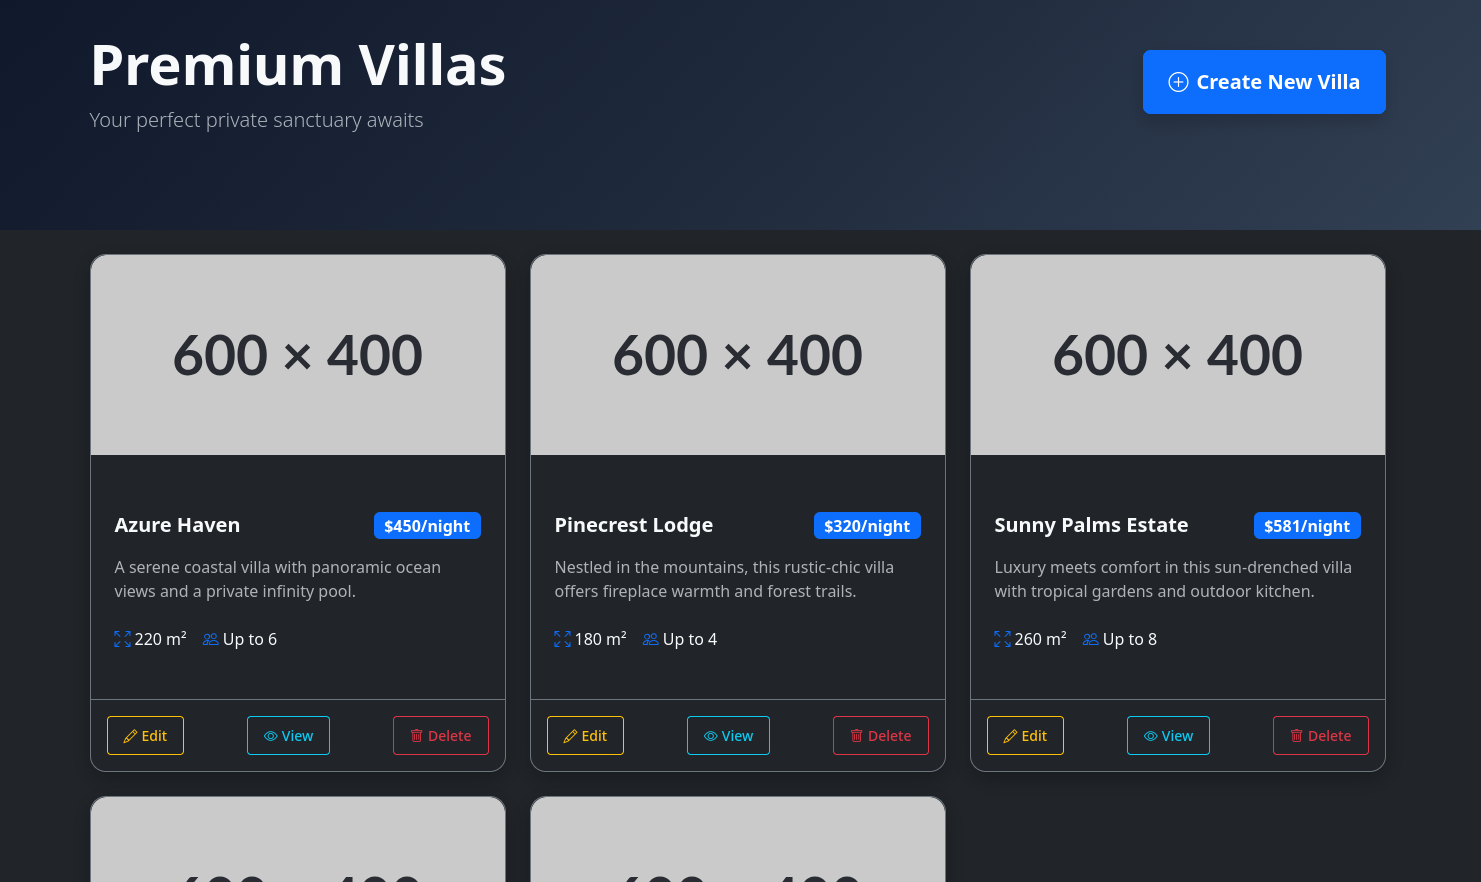
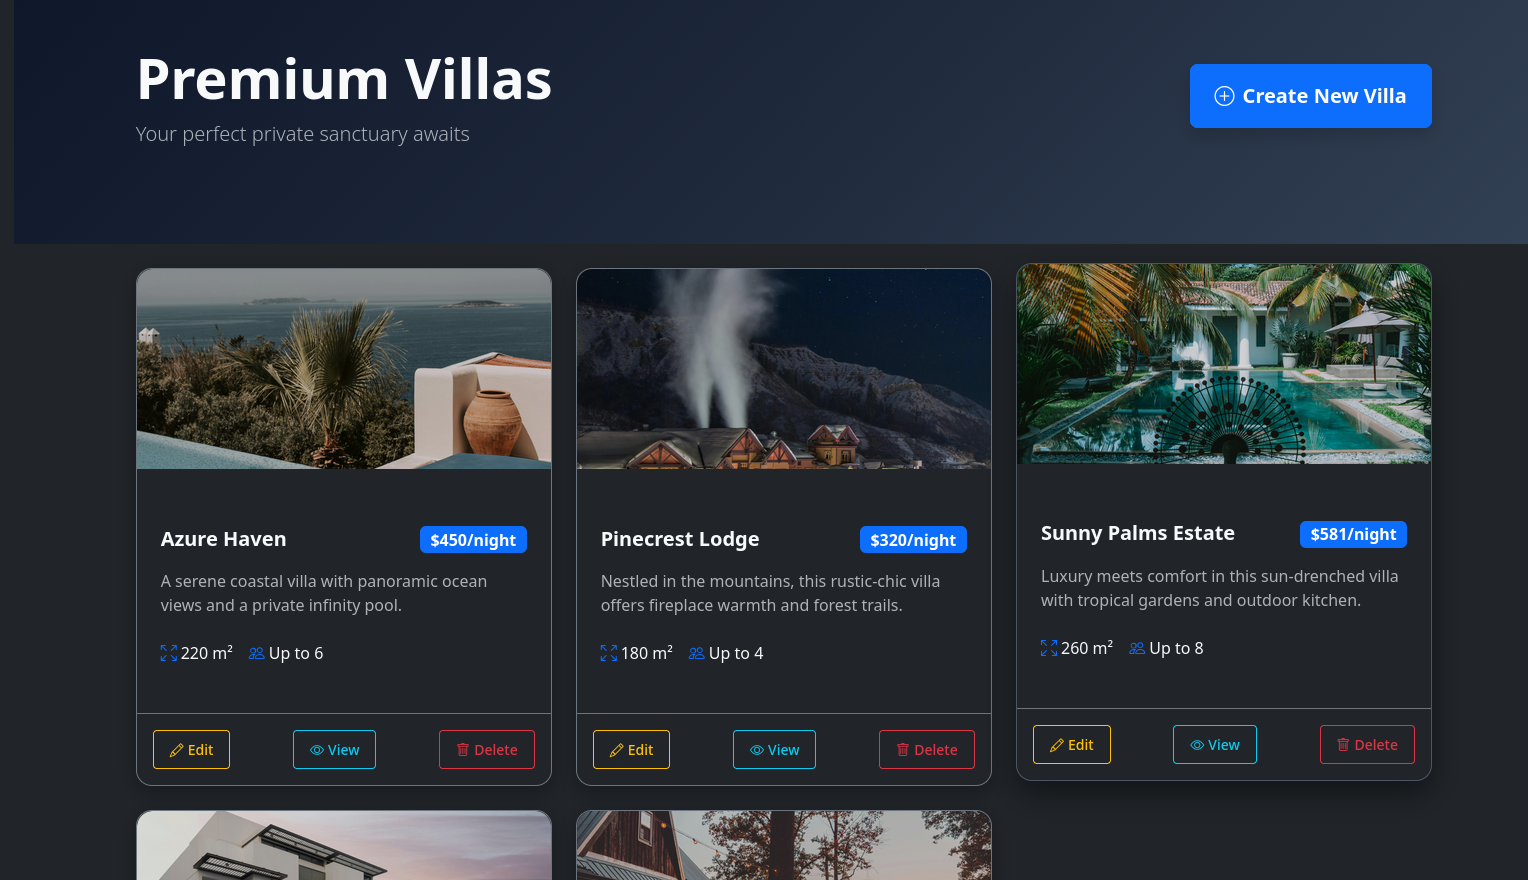
Add more pictures for readme and add more info to readme

diff --git a/README.md b/README.md
@@ -1,28 +1,26 @@
 # 🌴 WhiteLagoon Villas
-
 A full-stack luxury villa booking platform built with **.NET 10 MVC**, **PostgreSQL**, and **Onion Architecture**.  
-Modern dark-themed UI, admin dashboard for managing villas/rooms/amenities, public booking flow, and responsive design.
-
-> **Note:** The final checkout / payment step is intentionally **not functional** (Stripe is unavailable in the Isle of Man). The rest of the application (browsing, availability check, admin CRUD, booking summary) works end-to-end.
+Modern dark-themed UI, admin dashboard for managing villas/rooms/amenities, public booking flow with real payments, and responsive design.
 
 ## 📦 Technologies
-
 - **Backend**  
   - .NET 10 (MVC)  
   - Entity Framework Core  
   - PostgreSQL  
   - Onion / Clean Architecture  
   - ASP.NET Identity (basic auth for admin)
+  - Paddle Billing API (server-side payment integration)
 
 - **Frontend**  
   - Razor Views + Bootstrap 5  
   - Custom CSS (dark modern theme)  
-  - JavaScript & some JQuery
+  - JavaScript & jQuery
+  - ApexCharts (admin dashboard analytics)
 
 - **Tools**  
   - dotnet CLI  
   - EF Core migrations  
-  - User Secrets (for connection string)
+  - User Secrets (for connection string + API keys)
 
 ## ✨ Features
 
@@ -30,50 +28,86 @@ Modern dark-themed UI, admin dashboard for managing villas/rooms/amenities, publ
 - Beautiful villa showcase grid with filters
 - Availability checker (date + nights)
 - Detailed villa view with amenities modal
-- Booking summary page (pre-checkout)
+- Full booking flow with secure payment via Paddle
+- Booking confirmation screen
 
 ### Admin area (requires login)
 - CRUD for Villas (create, edit, delete, upload image)
 - Room inventory management per villa
 - Amenity management (assign to villas)
-- Clean, dark-themed admin dashboard
+- Booking management with status tracking (Pending → Approved → Checked In → Completed)
+- Clean, dark-themed admin dashboard with live analytics
 
-## ⚠ Current Limitations
+### Admin Dashboard (ApexCharts)
+- **Total Bookings** radial KPI card with month-over-month comparison
+- **User Registrations** radial KPI card with month-over-month comparison
+- **Total Revenue** radial KPI card with month-over-month comparison
+- **New Members & Bookings** line chart (past 30 days, two-series time series)
+- **Customer Bookings** pie chart (new vs returning customers)
 
-- **Checkout / Payment** does **not** work (intentionally left unimplemented)  
-  → Reason: Stripe is not supported in the Isle of Man.  
-  The booking flow stops at the final confirmation screen.
+## 💳 Payment Integration
+
+Payments are handled via **[Paddle Billing](https://www.paddle.com/)** (currently running in **sandbox mode**).
+
+The integration follows a secure server-side flow — the browser never creates or controls the transaction:
+
+```
+Guest fills booking form
+  → Server saves booking as Pending
+  → Server creates Paddle transaction via API (secret key, never exposed to client)
+  → Paddle overlay opens with server-created transaction
+  → Guest pays
+  → Server independently verifies payment status with Paddle API
+  → Booking marked as Approved only after server-side confirmation
+```
+
+> ⚠ **Sandbox mode**: No real money is charged. Use Paddle's test card details to complete a booking.
 
 ## 🚦 Running the Project Locally
 
 1. **Clone the repository**
 
-   git clone https://github.com/YOUR-USERNAME/WhiteLagoon.git  
-   cd WhiteLagoon
+2. **Set secrets** (using User Secrets — recommended)
 
-2. **Set the database connection string** (using User Secrets — recommended)
+   ```bash
+   dotnet user-secrets init
+   dotnet user-secrets set "ConnectionStrings:DefaultConnection" "Host=localhost;Database=WhiteLagoon;Username=youruser;Password=yourpassword"
+   dotnet user-secrets set "Paddle:ApiKey" "your_sandbox_secret_key"
+   dotnet user-secrets set "Paddle:BaseUrl" "https://sandbox-api.paddle.com"
+   ```
 
-   `dotnet user-secrets init` 
-   `dotnet user-secrets set "ConnectionStrings:DefaultConnection" "Host=localhost;Database=WhiteLagoon;Username=youruser;Password=yourpassword"`
+3. **Apply migrations**
 
-   Replace postgres / yourpassword with your actual PostgreSQL credentials.
-
-3. **Apply migrations** to create/update the database
-
-   `dotnet ef database update`
+   ```bash
+   dotnet ef database update
+   ```
 
 4. **Run the application**
 
-   `dotnet run`
-
-   → Open https://localhost:5001 (or the port shown in the console)
+   ```bash
+   dotnet run --launch-profile https
+   ```
+   → Open `https://localhost:7049` (or the port shown in the console)
+   
+   > HTTPS is required — Paddle enforces it even for local development.
 
 5. **Optional: Create an admin user**
-
-   - Register a user via the site /Identity/Account/Register  
-   - Manually assign the Admin role in the Register section
+   - Register via `/Identity/Account/Register`
+   - Manually assign the `Admin` role in the database
 
 ## 🖼 Screenshots
+
+### Admin – Dashboard & Navigation
+![Admin dashboard with ApexCharts analytics](images/readme/admin-dashboard-and-nav.png)
+
+### Booking – Complete Payment
+![Complete payment screen](images/readme/complete-payment.png)
+
+### Booking – Payment (Paddle Sandbox)
+![Paddle payment overlay](images/readme/paddle-pay-screen.png)
+
+### Booking – Confirmed
+![Booking confirmation screen](images/readme/booking-confirmed.png)
 
 ### Homepage – Hero & Villas Grid
 ![Homepage hero and villa showcase](images/readme/homepage.png)
@@ -81,32 +115,36 @@ Modern dark-themed UI, admin dashboard for managing villas/rooms/amenities, publ
 ### Availability Checker & Villa Cards
 ![Availability form and cards](images/readme/availability-villas.png)
 
-### Villa Details Modal
-![Detailed villa popup with amenities](images/readme/villa-details-modal.png)
+### Villa Details
+![Detailed villa view with amenities](images/readme/villa-details.modal.png)
 
-### Booking Summary (pre-checkout)
+### Booking – Finalize
 ![Booking finalize screen](images/readme/booking-finalize.png)
 
+### Booking – List & Management
+![Booking list](images/readme/booking-list.png)
+
+### Booking – Details
+![Booking details view](images/readme/booking-details.png)
+
 ### Admin – Villas Management
-![Admin villas CRUD dashboard](images/readme/admin-villas.png)
+![Admin villas CRUD](images/readme/admin-villas.png)
 
 ### Admin – Room Inventory
 ![Room inventory per villa](images/readme/room-inventory.png)
 
 ## 🧠 Architecture Highlights
-
 - **Onion Architecture** — domain core independent of frameworks
-- Clear separation: Application / Domain / Infrastructure 
+- Clear separation: Application / Domain / Infrastructure
 - Repository + Unit of Work pattern
-- Dependency Injection everywhere
+- Dependency Injection throughout
 - EF Core with fluent configuration
+- Server-side payment verification — client is never trusted for payment status
 
 ## 💭 Possible Improvements
-
-- Implement an alternative payment gateway available in Isle of Man (e.g. PayPal, local provider)
+- Move Paddle from sandbox to live mode
 - Add real image upload to cloud storage (Azure Blob, AWS S3, Cloudinary)
 - Improve mobile experience for admin panels
 - Add search/filter on public villa list
 - Email confirmation after booking
 - Calendar / real availability blocking
-- Role-based access control refinements
